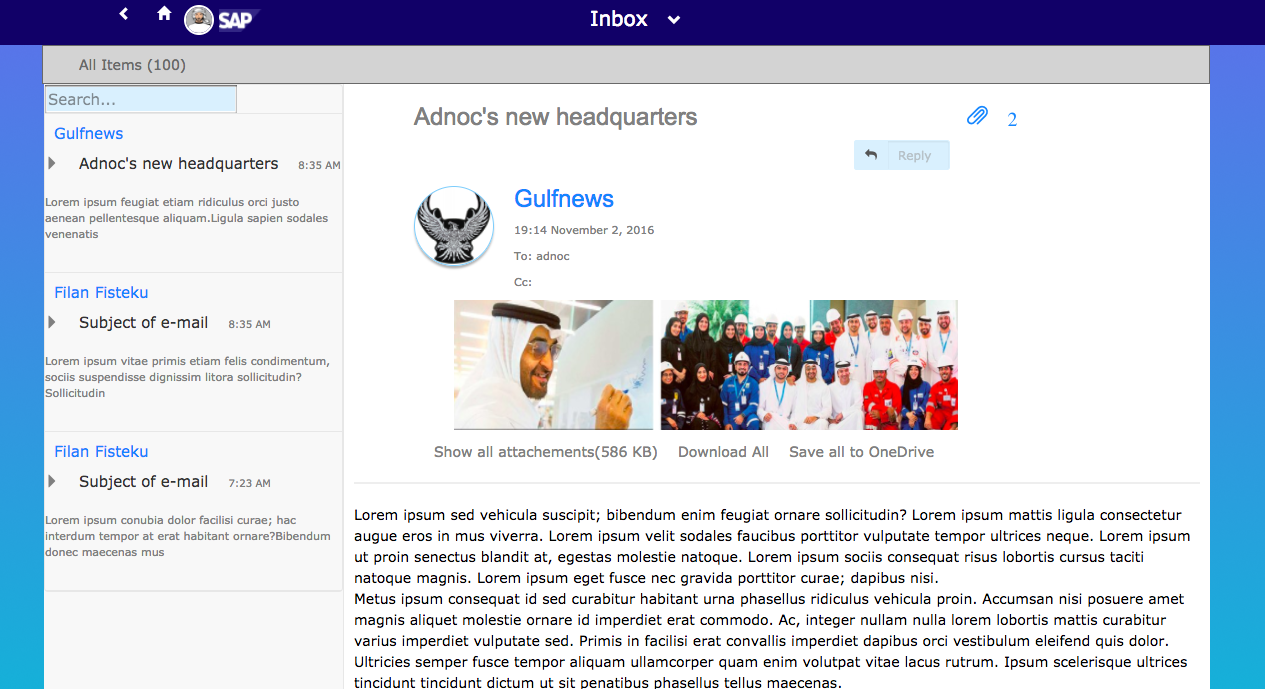
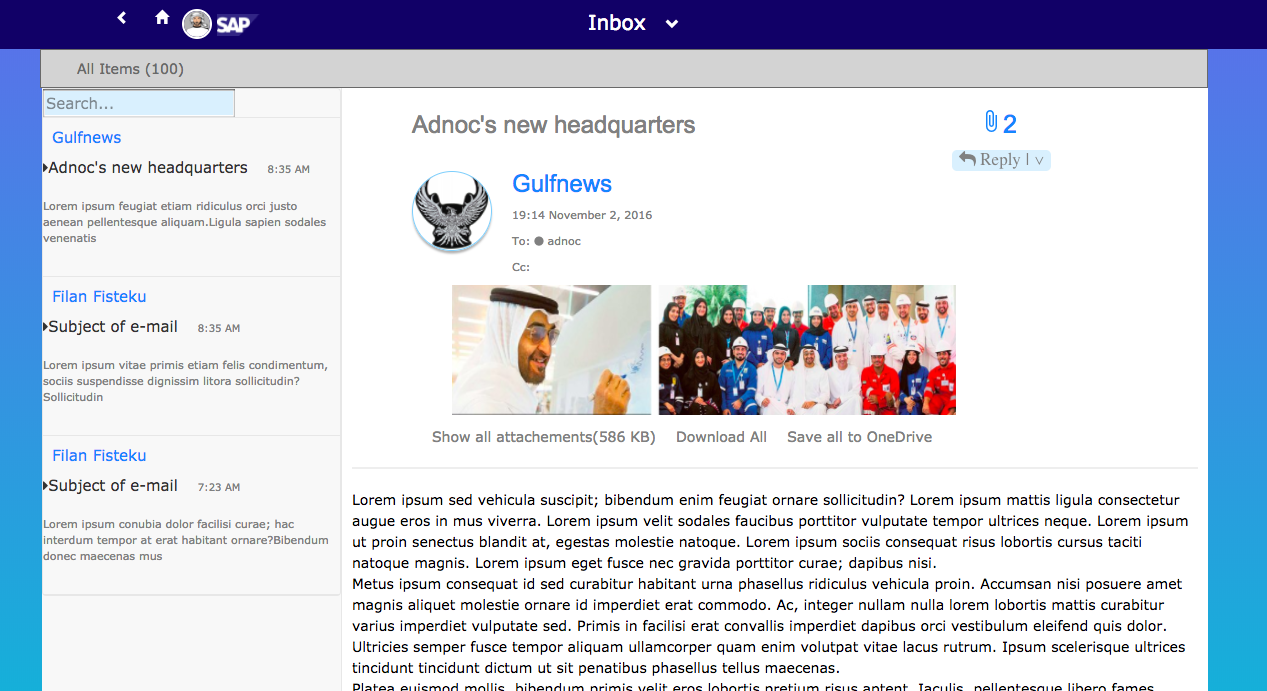
final page2

diff --git a/page2/page2.html b/page2/page2.html
@@ -10,9 +10,11 @@
 	<script src="https://maxcdn.bootstrapcdn.com/bootstrap/3.3.7/js/bootstrap.min.js"></script>
 	<!-- link to w3css library -->
 	<link rel="stylesheet" href="https://www.w3schools.com/w3css/4/w3.css">
-
 	<!-- link to font-awesome library -->
 	<link href="https://maxcdn.bootstrapcdn.com/font-awesome/4.5.0/css/font-awesome.min.css" rel="stylesheet"/>
+	<!-- library to google icons -->
+	<meta name="viewport" content="width=device-width, initial-scale=1">
+	<link href="https://fonts.googleapis.com/icon?family=Material+Icons" rel="stylesheet">
 	<!-- link to the local files -->
 	<link rel="stylesheet" type="text/css" href="./assets/style.css">
 </head>
@@ -53,33 +55,34 @@
 		<!-- Main Content -->
 		<div class="container-fluid">
 			<div id="description" class="side-body">
-				<h3 id="headquarters"> Adnoc's new headquarters<span style="margin-left: 270px; font-size: 20px; color: #1E90FF;" class="glyphicon glyphicon-paperclip"> 2</span> </h3>
-				<div class="input-group input-group-sm" style="margin-left: 500px;">
-					<span class="input-group-addon" style="background-color: #dbf0fd; border-color:#dbf0fd;"><i  style="background-color: #dbf0fd;" class="fa fa-reply">
-					</i>
-				</span>
-				<input type="text" class="form-control" placeholder="Reply" aria-describedby="sizing-addon2" style=" width: 20%; background-color: #dbf0fd; border-color:#dbf0fd;">
-			</div>
-			<br />
-			<div class="circle" style="background-image: url('./assets/falcon.JPG')">
-			</div><h3 id="gulf">Gulfnews</h3>
-			<div id="details">
-				<p>19:14 November 2, 2016</p>
-				<p>To: adnoc</p>
-				<p>Cc: </p>
-			</div>
-			<div id="images">
-				<img src="./assets/img2.png" width="200" height="130">
-				<img src="./assets/img1.png" width="300" height="130">
-			</div>
-			<br>
-			<span style="margin-left: 80px;">Show all attachements(586 KB)</span><span>Download All</span><span>Save all to OneDrive</span>
-			<hr style="border-width: 2px; color: black;">
-			<p style="font-size: 14px; color: black; margin-top: 20px;">Lorem ipsum sed vehicula suscipit; bibendum enim feugiat ornare sollicitudin? Lorem ipsum mattis ligula consectetur augue eros in mus viverra. Lorem ipsum velit sodales faucibus porttitor vulputate tempor ultrices neque. Lorem ipsum ut proin senectus blandit at, egestas molestie natoque. Lorem ipsum sociis consequat risus lobortis cursus taciti natoque magnis. Lorem ipsum eget fusce nec gravida porttitor curae; dapibus nisi.<br>Metus ipsum consequat id sed curabitur habitant urna phasellus ridiculus vehicula proin. Accumsan nisi posuere amet magnis aliquet molestie ornare id imperdiet erat commodo. Ac, integer nullam nulla lorem lobortis mattis curabitur varius imperdiet vulputate sed. Primis in facilisi erat convallis imperdiet dapibus orci vestibulum eleifend quis dolor. Ultricies semper fusce tempor aliquam ullamcorper quam enim volutpat vitae lacus rutrum. Ipsum scelerisque ultrices tincidunt tincidunt dictum ut sit penatibus phasellus tellus maecenas.<br>Platea euismod mollis, bibendum primis velit eros lobortis pretium risus aptent. Iaculis, pellentesque libero fames bibendum ultrices feugiat eu cubilia est blandit? Eleifend quam adipiscing cum aenean lorem urna inceptos odio lacus phasellus.</p>
+				<h3 id="headquarters"> Adnoc's new headquarters
+					<button id="attach">
+						<i class="material-icons">attach_file</i>2</button>
+					</h3>
+					<button id="reply">
+						<i style="font-size: 17px;" class="fa fa-reply"> Reply &#10072;  &#x2228;</i>
+					</button>
+					<br />
+					<div class="circle" style="background-image: url('./assets/falcon.JPG')">
+					</div><h3 id="gulf">Gulfnews</h3>
+					<div id="details">
+						<p>19:14 November 2, 2016</p>
+						<p>To: <i class="fa fa-circle" aria-hidden="true"></i>
+						adnoc</p>
+						<p>Cc: </p>
+					</div>
+					<div id="images">
+						<img src="./assets/img2.png" width="200" height="130">
+						<img src="./assets/img1.png" width="300" height="130">
+					</div>
+					<br>
+					<span style="margin-left: 80px;">Show all attachements(586 KB)</span><span>Download All</span><span>Save all to OneDrive</span>
+					<hr style="border-width: 2px; color: black;">
+					<p style="font-size: 14px; color: black; margin-top: 20px;">Lorem ipsum sed vehicula suscipit; bibendum enim feugiat ornare sollicitudin? Lorem ipsum mattis ligula consectetur augue eros in mus viverra. Lorem ipsum velit sodales faucibus porttitor vulputate tempor ultrices neque. Lorem ipsum ut proin senectus blandit at, egestas molestie natoque. Lorem ipsum sociis consequat risus lobortis cursus taciti natoque magnis. Lorem ipsum eget fusce nec gravida porttitor curae; dapibus nisi.<br>Metus ipsum consequat id sed curabitur habitant urna phasellus ridiculus vehicula proin. Accumsan nisi posuere amet magnis aliquet molestie ornare id imperdiet erat commodo. Ac, integer nullam nulla lorem lobortis mattis curabitur varius imperdiet vulputate sed. Primis in facilisi erat convallis imperdiet dapibus orci vestibulum eleifend quis dolor. Ultricies semper fusce tempor aliquam ullamcorper quam enim volutpat vitae lacus rutrum. Ipsum scelerisque ultrices tincidunt tincidunt dictum ut sit penatibus phasellus tellus maecenas.<br>Platea euismod mollis, bibendum primis velit eros lobortis pretium risus aptent. Iaculis, pellentesque libero fames bibendum ultrices feugiat eu cubilia est blandit? Eleifend quam adipiscing cum aenean lorem urna inceptos odio lacus phasellus.</p>
 
+				</div>
+			</div>
 		</div>
-	</div>
-</div>
-<script src="./page2.js"></script>
-</body>
-</html>
+		<script src="./page2.js"></script>
+	</body>
+	</html>

diff --git a/page1/page1.html b/page1/page1.html
@@ -8,6 +8,10 @@
 	<script src="https://ajax.googleapis.com/ajax/libs/jquery/3.2.1/jquery.min.js"></script>
 	<!-- link to bootstrap library "js files" -->
 	<script src="https://maxcdn.bootstrapcdn.com/bootstrap/3.3.7/js/bootstrap.min.js"></script>
+	<!-- link to font-awesome library -->
+	<link href="https://maxcdn.bootstrapcdn.com/font-awesome/4.5.0/css/font-awesome.min.css" rel="stylesheet"/>
+	<!-- library to google icons -->
+	<link href="https://fonts.googleapis.com/icon?family=Material+Icons" rel="stylesheet">
 	<!-- link to the local files -->
 	<link rel="stylesheet" type="text/css" href="./assets/style.css">
 	<script src="./page1.js"></script>
@@ -72,7 +76,8 @@
 				<p>
 					<a href="#" class="btn btn-sq-lg btn-primary">
 						<span style="color: #666666; margin-left: -5px; font-size: 22px;">Lorem Ipsum</span><br> 
-						<span style="color: #999999">amet, consiscconsisc</span>
+						<span style="color: #999999">amet, consiscconsisc</span><br>
+						<i class="fa fa-signal" aria-hidden="true"></i>
 					</a>
 					<a id="sq2" href="#" class="btn btn-sq-lg btn-primary">
 						<span style="color: #666666; margin-left: -130px; font-size: 28px;">My Inbox</span> <br><span style="color: #999999; margin-left: -180px; font-size: 20px;">All items</span>
@@ -130,7 +135,8 @@
 					</a>
 					<a href="#" class="btn btn-sq-lg btn-primary">
 						<span style="color: #666666; margin-left: -5px; font-size: 22px;">Lorem Ipsum</span><br> 
-						<span style="color: #999999">amet, consiscconsisc</span>
+						<span style="color: #999999">amet, consiscconsisc</span><br>
+						<i style="margin-top: 40px; margin-left: 50px; color: #ff6666" class="fa fa-eye fa-5x" aria-hidden="true"></i>
 					</a>
 					<a href="#" class="btn btn-sq-lg btn-primary">
 						<span style="color: #666666; margin-left: -5px; font-size: 22px;">Lorem Ipsum</span><br> 

diff --git a/page2/assets/style.css b/page2/assets/style.css
@@ -123,18 +123,18 @@
 	color: #1E90FF;
 }
 .circle {
-  display: block;
-  width: 80px;
-  height: 80px;
-  margin-left: 60px;
-  background-size: cover;
-  background-repeat: no-repeat;
-  background-position: center center;
-  -webkit-border-radius: 99em;
-  -moz-border-radius: 99em;
-  border-radius: 99em;
-  border: 1px solid #87CEFA;
-  box-shadow: 0 3px 2px rgba(0, 0, 0, 0.3);  
+	display: block;
+	width: 80px;
+	height: 80px;
+	margin-left: 60px;
+	background-size: cover;
+	background-repeat: no-repeat;
+	background-position: center center;
+	-webkit-border-radius: 99em;
+	-moz-border-radius: 99em;
+	border-radius: 99em;
+	border: 1px solid #87CEFA;
+	box-shadow: 0 3px 2px rgba(0, 0, 0, 0.3);  
 }
 #details {
 	margin-left: 160px;
@@ -153,4 +153,16 @@ span {
 	font-size: 11px;
 	margin-bottom: 30px;
 	color: #808080;
+}
+#attach {
+	border: none; 
+	margin-left: 270px; 
+	font-size: 25px;
+	color: #1E90FF;
+}
+#reply {
+	border: none;
+	margin-left: 600px;
+	background-color: #dbf0fd;
+	border-radius: 5px; 
 }

diff --git a/page2/page2.js b/page2/page2.js
@@ -27,7 +27,7 @@ function fetch () {
 		                   data[i]['title']+
 		                   "</a>"+
 		                   "<dl style='font-size= 9px;'>"
-		                   + "<span class='glyphicon glyphicon-triangle-right'></span>"+
+		                   + "<i class='fa fa-caret-right' aria-hidden='true'></i>"+
 		                   data[i]['name']+
 		                   "<span style='margin-left: 20px; font-size: 10px;'>"+
 		                    data[i]['time']+"</span>"+
